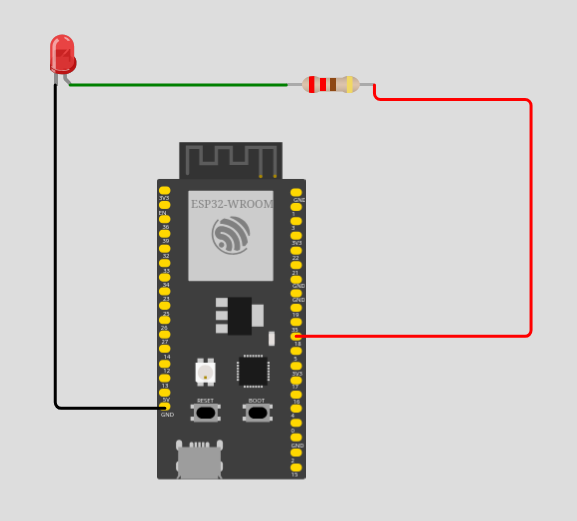
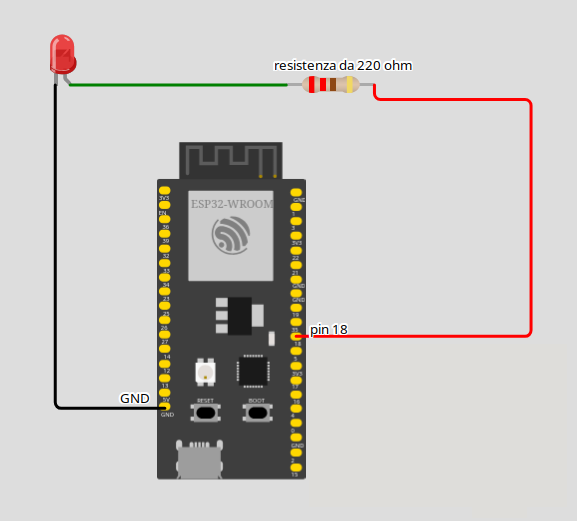
led: some fixes

Changed region(s): [[0.4679, 0.0921, 0.7175, 0.1536], [0.1872, 0.737, 0.2808, 0.7985], [0.5303, 0.6142, 0.6239, 0.6449]]

diff --git a/docs/corso/11_led_ledbar.md b/docs/corso/11_led_ledbar.md
@@ -5,8 +5,8 @@ Introduciamo i componenti fondamentali con cui andremo a lavorare:
 
 ## LED
 
-Un LED è un componente elettronico che funziona solo quando la corrente scorre nel verso giusto. Tipicamente ha due poli: il polo positivo (catodo)
-nel pin più lungo e il polo negativo (anodo) nel pin più corto. 
+Un LED è un componente elettronico che funziona solo quando la corrente scorre nel verso giusto. 
+Tipicamente ha due poli: **il polo positivo nel pin più lungo** (catodo) e **il polo negativo nel pin più corto** (anodo). 
 
 ![LED](images/LED.png)
 
